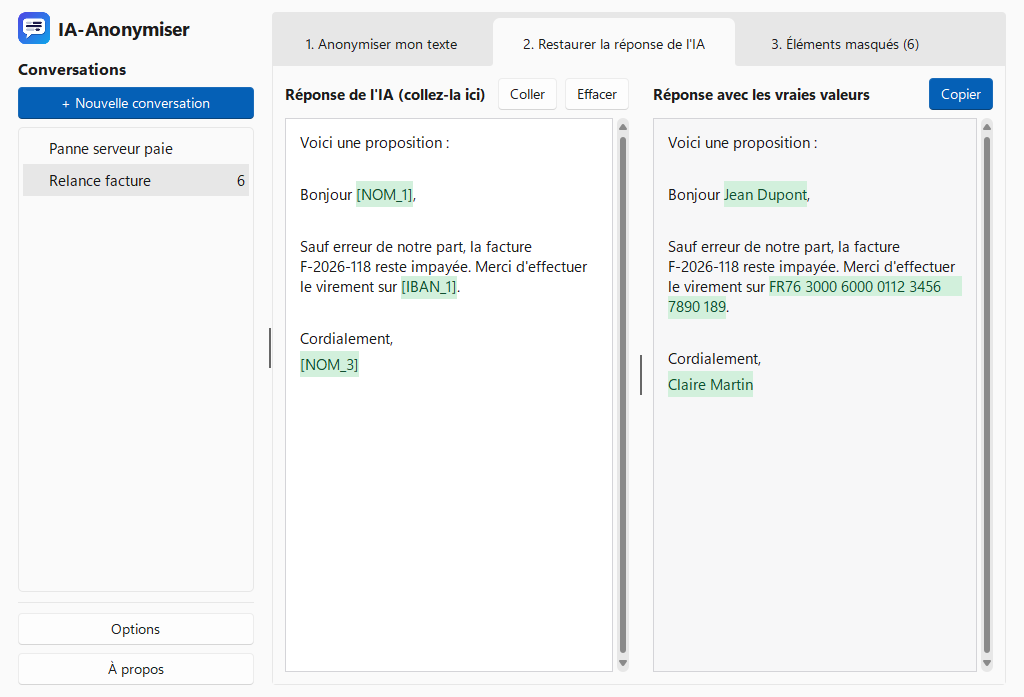
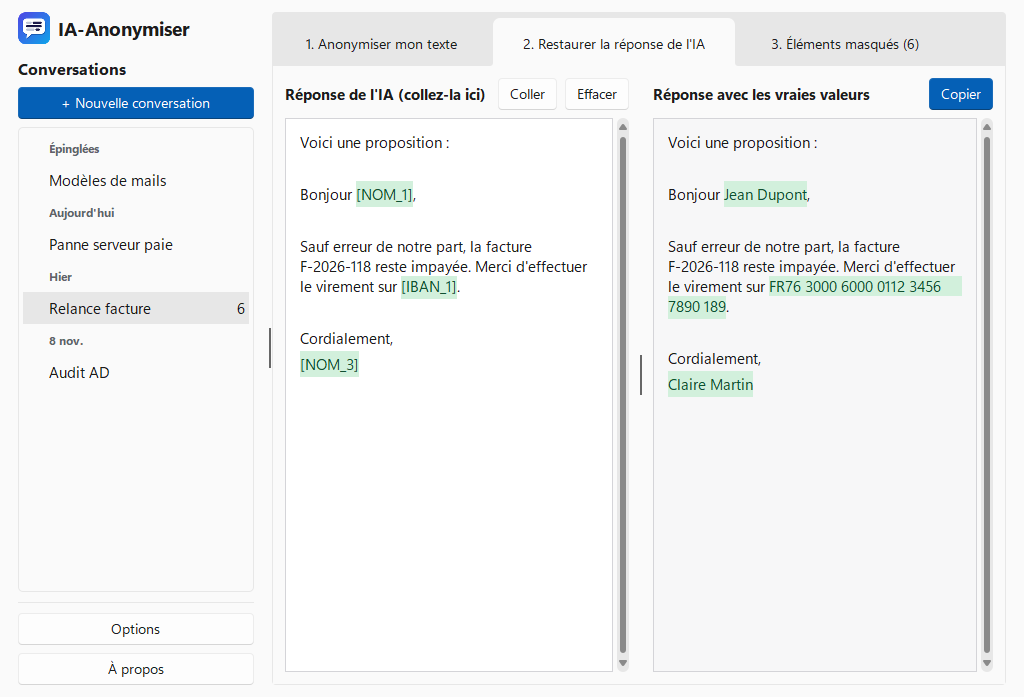
README : conversations épinglées et classées par date
Claude-Session: https://claude.ai/code/session_01HRDvkQPwDqhkpwtVeyn17T

diff --git a/README.md b/README.md
@@ -22,11 +22,11 @@ Chaque [release](https://github.com/Some0neElseIsHere/IA-Anonymiser/releases) co
 
 ### Une conversation par discussion avec l'IA
 
-La colonne de gauche liste vos conversations, la plus récente en haut. Créez-en une par discussion avec l'IA. Dans une conversation, un même élément garde toujours le même jeton, d'un message à l'autre : si Jean Dupont est `[NOM_1]` dans votre premier message, il le reste dans les suivants, et l'IA s'y retrouve. L'onglet **3. Éléments masqués** liste tous les éléments déjà masqués dans la conversation, y compris ceux des messages précédents.
+La colonne de gauche liste vos conversations, classées comme dans Claude : d'abord les **épinglées**, puis **Aujourd'hui**, **Hier**, et une rubrique par date (« 9 nov. »), selon votre dernière activité dans chacune. Créez-en une par discussion avec l'IA. Dans une conversation, un même élément garde toujours le même jeton, d'un message à l'autre : si Jean Dupont est `[NOM_1]` dans votre premier message, il le reste dans les suivants, et l'IA s'y retrouve. L'onglet **3. Éléments masqués** liste tous les éléments déjà masqués dans la conversation, y compris ceux des messages précédents.
 
 **Avant de coller une réponse de l'IA, sélectionnez la bonne conversation.** Un jeton inconnu de cette conversation apparaît en rouge.
 
-Les conversations sont conservées d'un lancement à l'autre : vous pouvez restaurer une réponse de l'IA le lendemain. Faites un clic droit sur une conversation pour la renommer ou la fermer.
+Les conversations sont conservées d'un lancement à l'autre : vous pouvez restaurer une réponse de l'IA le lendemain. Faites un clic droit sur une conversation pour l'épingler, la renommer ou la fermer.
 
 ### Ce qui est masqué
 
